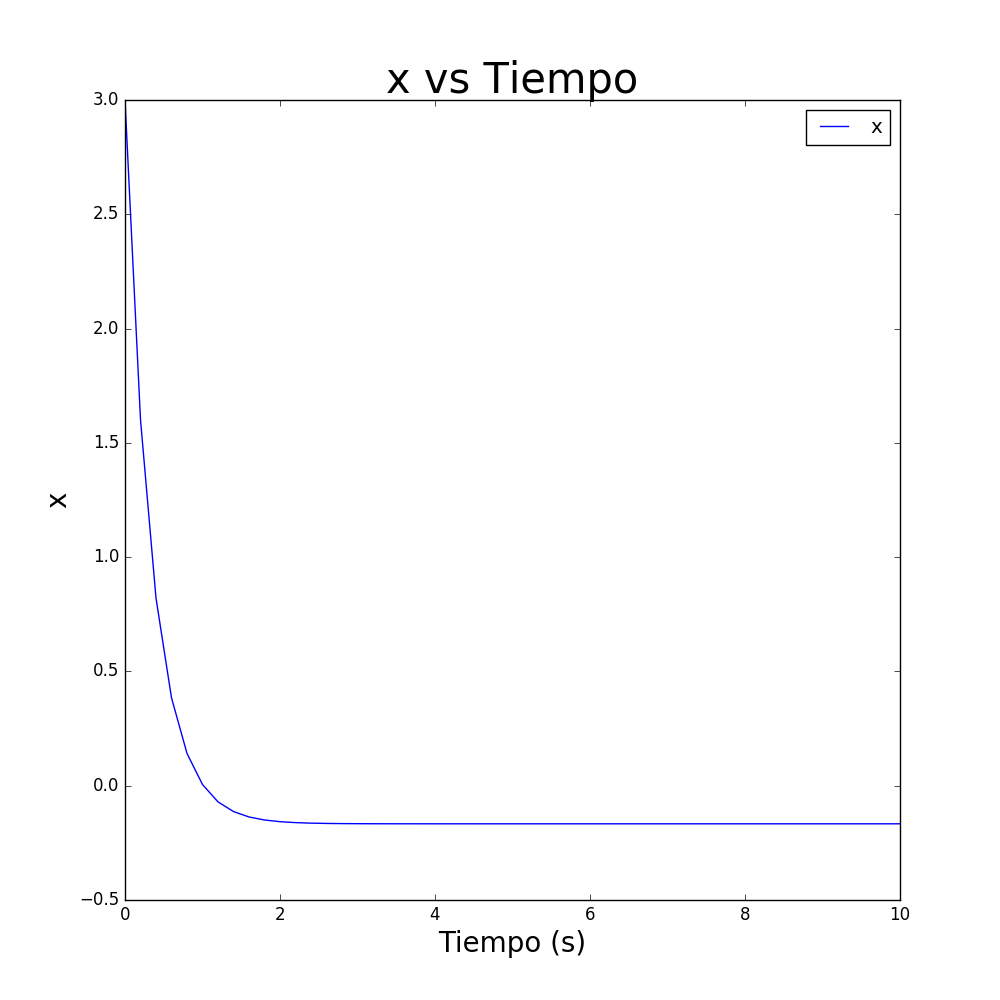
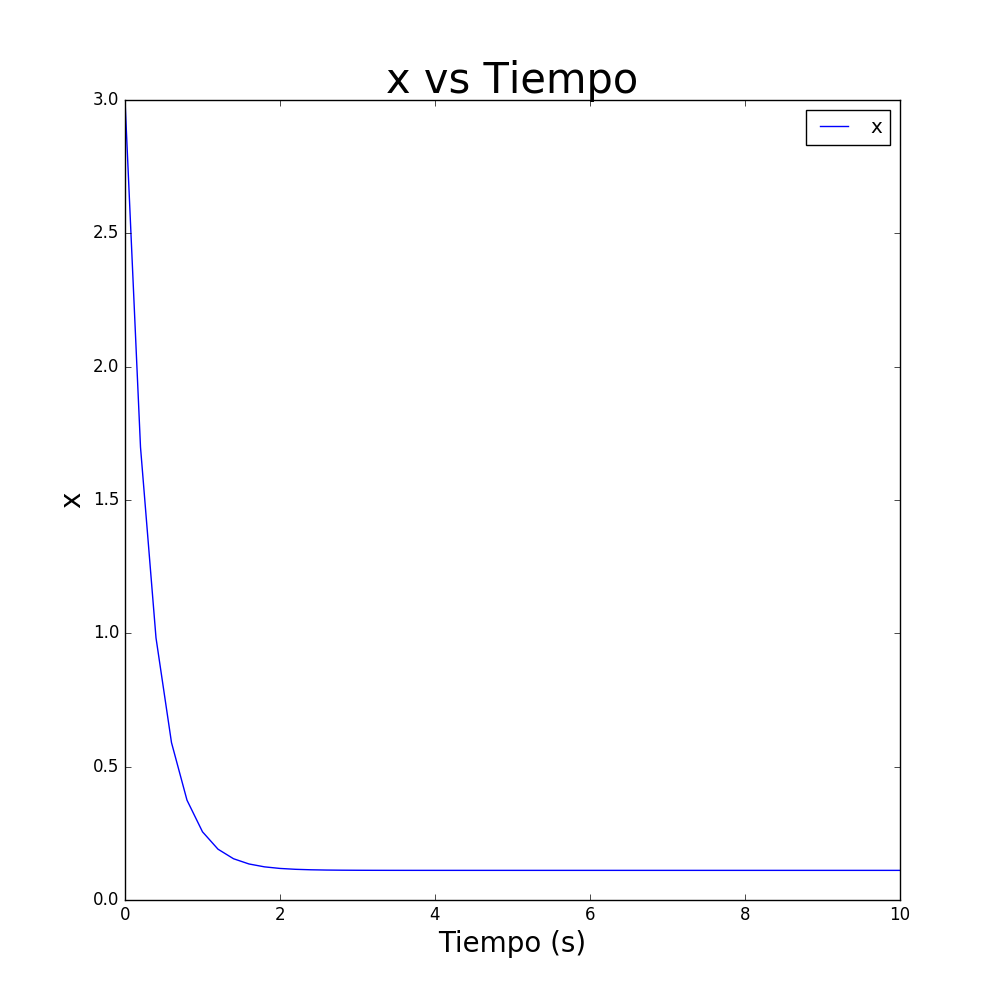
interpreter montado a .py

diff --git a/simbiosysv1.0/interpreter.py b/simbiosysv1.0/interpreter.py
@@ -1,5 +1,13 @@
 import numpy as np
 
+#declaramos todo lo que necesitaremos despues
+metodos =[]
+eventos = []
+params = {}
+const = {}
+revparams =  {}
+acciones= []
+
 #esto procesa cada una de las ecuaciones
 #que entran en el archivo
 def procesarFuncion(linea):
@@ -40,19 +48,19 @@ def procesarTermino(termino):
 
             else:
                 ans = ans + j
+    eventos.append(ans.strip())
     return ans
 
 
-metodos =[]
-params = {}
-const = {}
-revparams =  {}
 
 #archivo que vamos a leer
 file = open("ejemplo.dat")
+
 #archivo al que escribiremos
 outf = open('ecuaciones.py', 'w')
 #solo creo que necesitaremos numpy, igual ese archivo solo se va a importar en otro
+
+print("hours =1",file=outf)
 print("import numpy as np",file= outf)
 #primero van las constantes
 #vamos a meterlas en un diccionario, facilita mucho la vida
@@ -69,7 +77,6 @@ while(not linea.startswith("------")):
         const[key] = val
         print(linea,file = outf)
 print("const = "+str(const),file = outf)
-
 #siguen los valores iniciales
 linea = file.readline()
 initVals = []
@@ -97,14 +104,15 @@ print("params = " + str(params),file = outf)
 #y los parametros reversados tambien
 print("#parametros en el diccionario reversados",file = outf)
 print("revparams = " + str(revparams),file = outf)
-
 linea = file.readline()
 #procesamos cada una de las funciones
 while(not linea.startswith("------")):
     procesarFuncion(linea)
     linea = file.readline()
+
 #ahora van las ecuaciones diferenciales
 print("#ecuaciones diferenciales",file=outf)
+
 for i in range(len(metodos)):
     #imprimos el encabezado de la funcion
     aimprimir = "def " + metodos[i][0].strip()+"(xs,const,t):"
@@ -113,6 +121,7 @@ for i in range(len(metodos)):
     #luego el cuerpo
     aimprimir = "\t"+"return "+metodos[i][1]
     print(aimprimir,file=outf)
+
 #por ultimo, metemos todas las funciones a un arreglo
 
 funcArray =[]
@@ -124,7 +133,76 @@ funcArray = str(funcArray)
 for i in funcArray:
     if(i!="\'"):
         newFuncArray += i
+#y lo imprimimos
+print("#arreglo de funciones",file = outf)
 print("funcArray = " + str(newFuncArray),file = outf)
+
+
+linea = file.readline()
+cont = 0
+#leemos las acciones asociadas a cada evento
+while(not linea.startswith("------")):
+    if(not linea.startswith("#")):
+
+        subacciones = linea.split(",")
+        for i in range(len(subacciones)):
+            aAgregar = ""
+            if(i!=len(subacciones)-1):
+                aAgregar = [float(subacciones[i]),cont]
+            else:
+                aAgregar = [float(subacciones[i][:-1]),cont]
+            acciones.append(aAgregar)
+        cont+=1
+    linea = file.readline()
+
+eventos = np.array(eventos)
+acciones = np.array(acciones)
+#tenemos que considerar los casos donde hay eventos que
+#se comparten entre ecuaciones
+#estas dos listas van a cumplir ese proposito
+curatedEvents =[]
+curatedActions = []
+#quitamos los signos de cada evento
+for i in range(len(eventos)):
+    eventos[i] = eventos[i][1:]
+
+#esto depura los eventos
+for i in range(len(eventos)):
+    aMirar = eventos[i]
+    #en el caso q se repita el evento
+    if(aMirar in curatedEvents):
+        curatedEvents = np.array(curatedEvents)
+        indices = np.where(eventos==aMirar)[0]
+        dondeVa = np.where(curatedEvents==aMirar)[0]
+        for j in indices:
+            curatedActions[int(dondeVa)][int(acciones[int(j)][1])] =acciones[int(j)][0]
+        curatedEvents= curatedEvents.tolist()
+    #en el caso que no este dentro de la lista depurada
+    else:
+
+        curatedEvents.append(aMirar)
+        subactions = np.zeros(len(params))
+        subactions[int(acciones[i][1])] = acciones[i][0]
+        curatedActions.append(subactions.tolist())
+
+#imprimimos las acciones
+print("#acciones",file = outf)
+print("actions = " + str(curatedActions),file = outf)
+
+#ademas, sacamos los eventos
+newEventos  = "["
+for i in curatedEvents:
+    ans = ""
+    for j in i:
+        if(i!="\'"):
+            ans += j
+    newEventos += (ans)+","
+newEventos = newEventos[:-1]
+newEventos += "]"
+print("#eventos",file = outf)
+print("def darEventos(xs):",file = outf)
+print("\treturn " + str(newEventos),file = outf)
+
 #Y salio para pintura
 outf.close()
 file.close()

diff --git a/simbiosysv1.0/ecuaciones.py b/simbiosysv1.0/ecuaciones.py
@@ -1,3 +1,4 @@
+hours =1
 import numpy as np
 #constantes
 a = 0
@@ -8,14 +9,20 @@ c=5
 
 const = {'b': 3.0, 'a': 0.0, 'c': 5.0}
 #valores iniciales
-initVals = [3.0, 2.0]
+initVals = [3.0, 4.0]
 #parametros en el diccionario
 params = {'x': 'xs[0]', 'y': 'xs[1]'}
 #parametros en el diccionario reversados
 revparams = {'xs[0]': 'x', 'xs[1]': 'y'}
 #ecuaciones diferenciales
 def x(xs,const,t):
-	return -3*xs[0]*4  -2  +a 
+	return -3*xs[0]   +a  +1/b 
 def y(xs,const,t):
-	return -3*xs[1]*4  -2 
+	return -3*xs[1]   -1/b 
+#arreglo de funciones
 funcArray = [x, y]
+#acciones
+actions = [[1.0, 0.0], [0.0, 0.0], [-1.0, -2.0], [0.0, 2.0]]
+#eventos
+def darEventos(xs):
+	return [3*xs[0],a,1/b,3*xs[1]]
